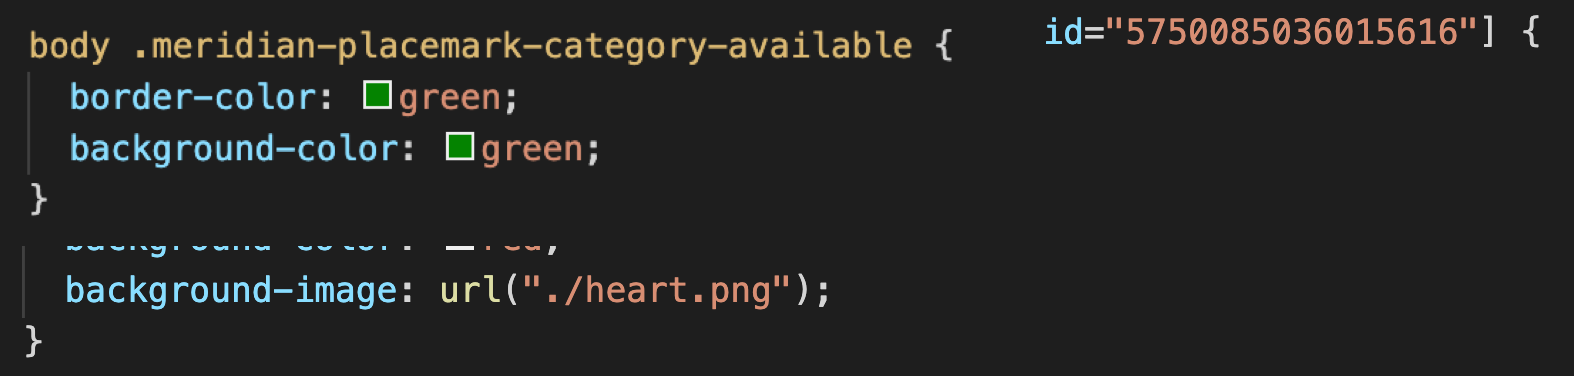
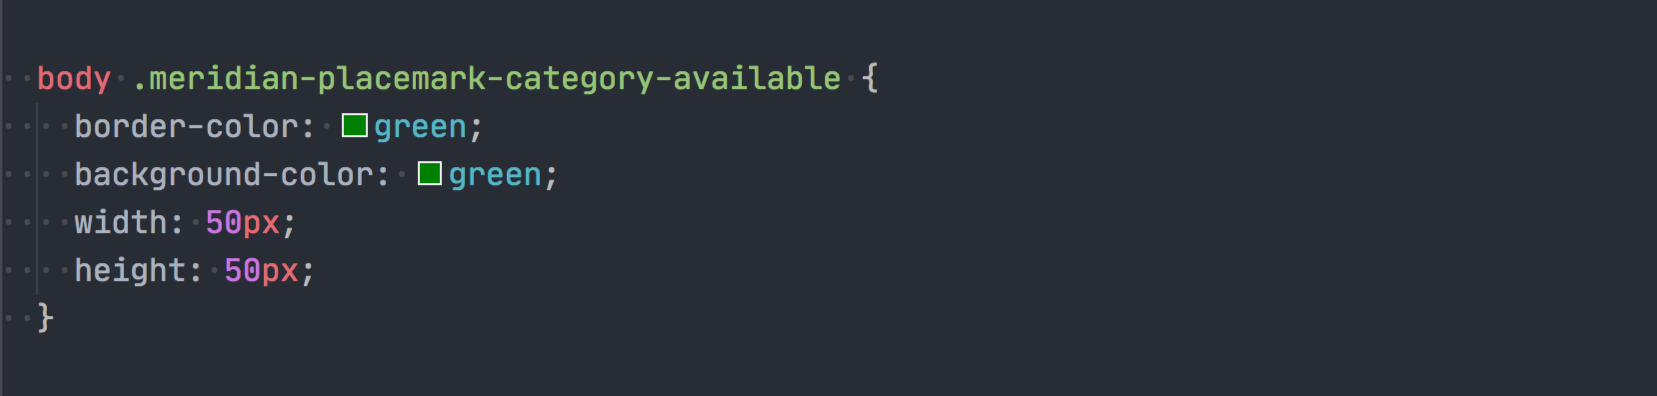
wip

Changed region(s): [[0.0, 0.0878, 0.6226, 0.9654], [0.6537, 0.0293, 0.9962, 0.117], [0.2802, 0.6436, 0.3424, 0.6729]]

diff --git a/demo/placemark-customization/index.html b/demo/placemark-customization/index.html
@@ -36,7 +36,7 @@
         margin: auto;
         border: 1px solid #ccc;
       }
-
+      
       .meridian-placemark-icon[data-meridian-placemark-id="5750085036015616"] {
         width: 50px;
         height: 50px;
@@ -49,6 +49,8 @@
       body .meridian-placemark-category-available {
         border-color: green;
         background-color: green;
+        width: 50px;
+        height: 50px;
       }
 
       @keyframes pulsing {
@@ -67,7 +69,12 @@
             <span>
               The custom placemark styling can be achieved using the placemark ID with the
               following code:<br/>
-              <img src="code.png" alt="code block" id="image-code" width="468" height="125" />
+              <img src="code.png" alt="code block" id="image-code" width="468" />
+            </span>
+            <span>
+              The custom placemark styling can be achieved using the placemark ID with the
+              following code:<br/>
+              <img src="code2.png" alt="code block" id="image-code" width="468" />
             </span>
           </div>
         </div>
